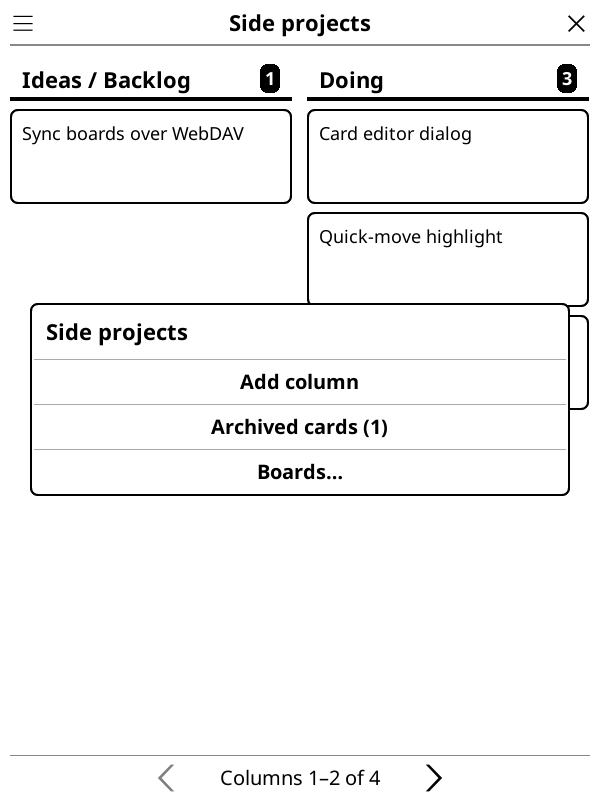
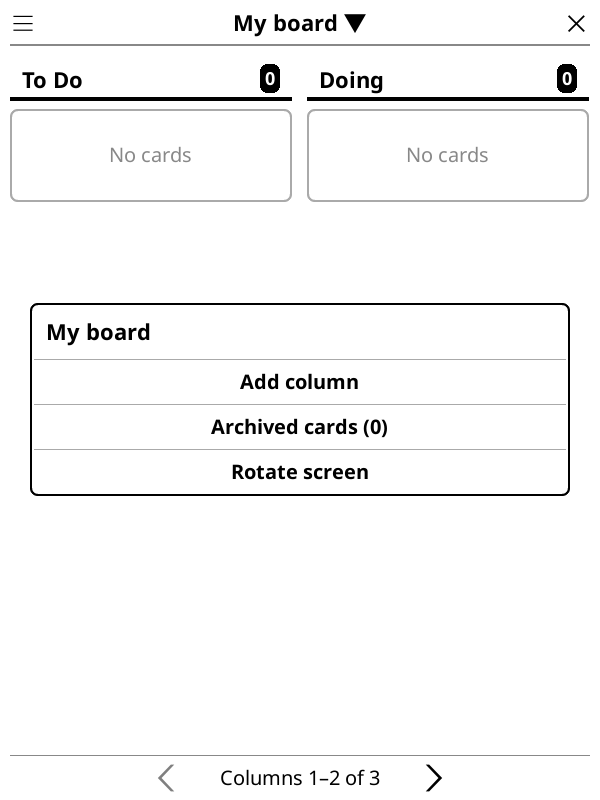
Verify phase 7 zip install; refresh board menu screenshot
Amp-Thread-ID: https://ampcode.com/threads/T-01a17999-2037-7392-89a5-bfc9f4224ad2

diff --git a/PLAN.md b/PLAN.md
@@ -247,6 +247,16 @@ list exists in `cards`. Indexes are clamped to the valid range.
 - [x] A script that zips `kanban.koplugin/` into `kanban.koplugin.zip` (`package.sh`).
 - [ ] Optional: export a board to Markdown in the home folder. (Moved to phase 14.)
 - **Done when:** installing from the zip on a clean KOReader works.
+- **Verified (2026-10-26, KOReader v2026.07.1, 600×800):** `./package.sh` produced
+  a valid zip. Extracted it into a brand-new, empty HOME with no repository symlink;
+  Tools → Kanban board opened the default board with To Do, Doing and Done. Rechecked
+  the title-bar Boards dialog and board switching, the ☰ menu entries (Add column,
+  Archived cards, Rotate screen; no Boards…), and portrait → landscape → portrait
+  rotation with the columns laid out correctly. No errors, failures or crashes in
+  `crash.log`; `busted` passes (13 tests). Inspected captures:
+  `.amp/in/artifacts/verify-board-menu.png`, `verify-boards-dialog.png`,
+  `verify-board-portrait.png`, `verify-board-landscape.png`,
+  `verify-clean-install.png` and `verify-clean-install-done.png`.
 
 ### Phase 8: Layout
 - [ ] C1: size each card to its title (1–3 lines, still cut at 3 with "…"). Fill each
